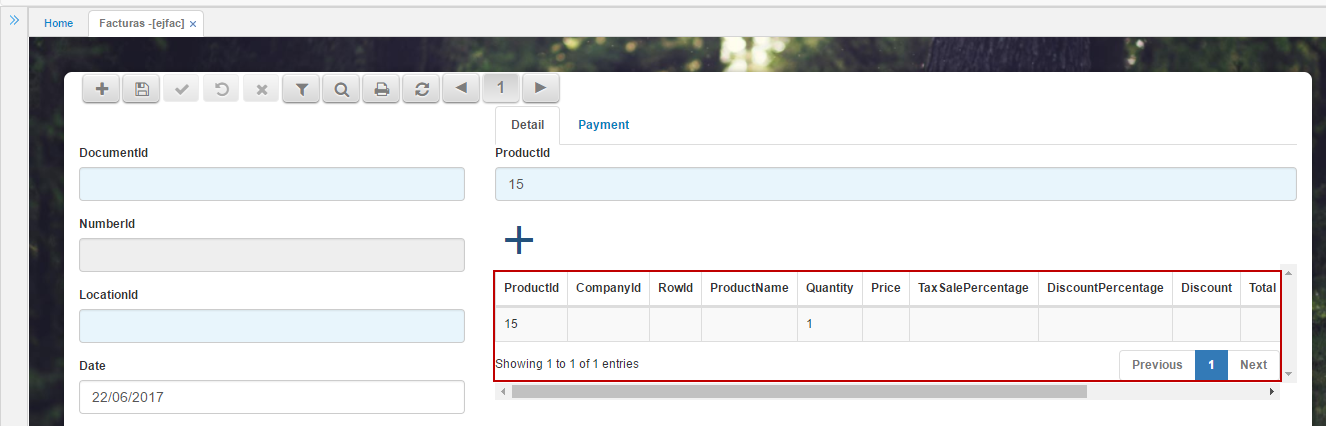
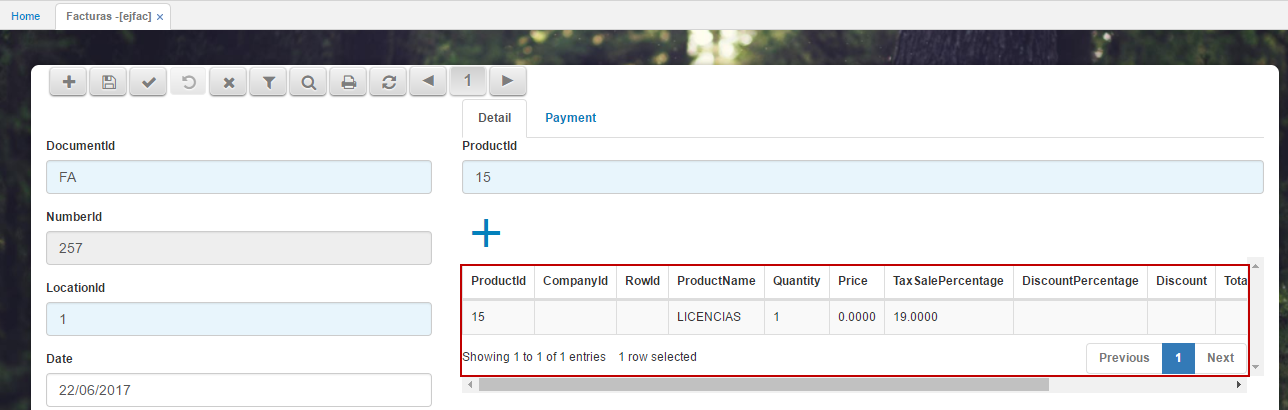
ejfac

diff --git a/Operacion/scm/pos/jcajero/ejfac.md b/Operacion/scm/pos/jcajero/ejfac.md
@@ -42,6 +42,12 @@ Los campos que sean de fondo azul indican que tienen zoom, en el cual pueden con
 **TaxSale:** ingresar el valor por impuesto a las ventas.  
 **Total:** ingresar el valor total del documento.  
 
+Ingresados los anteriores datos, damos click en el botón _Guardar_ ![](guardar.png) el cual asignará un número a la factura. 
+
+![](ejfac12.png)
+
+##### Detalle
+
 En la parte derecha de la ventana se encuentra la pestaña _Detalle_, en donde se seleccionará el producto correspondiente al documento que se realiza, ya sea que se factura o se realiza devolución.  
 
 ![](ejfac4.png)
@@ -56,5 +62,39 @@ Seleccionado el producto, se debe dar click en el botón ![](mas.png) para que e
 
 ![](ejfac7.png)
 
+Si se desean agregar más productos, se vuelve a buscar en el campo _ProductId_ y se da click en el botón ![](mas.png).
+
+![](ejfac8.png)
+
+Para eliminar algún producto de la lista se debe dar click sobre el mismo.  
+
+
+##### Pago
+
+Seguidamente se encuentra la pestaña _Pago (Payment)_, la cual permite realizar la modificación de la forma de pago de la factura, en el campo forma de pago se debe modificar la misma, puede ser efectivo, débito, crédito entre otros, esto se parametriza previamente en el sistema en la aplicación [**BFOR - Formas de Pago**](http://docs.oasiscom.com/Operacion/common/bcomer/bfor).  
+
+![](ejfac9.png)
+
+**FormPaymentId:** seleccionar de la lista desplegable la forma de pago. Parametrización de formas de pago en la aplicación [**BFOR - Formas de Pago**](http://docs.oasiscom.com/Operacion/common/bcomer/bfor).
+
+![](ejfac10.png)
+
+**ProjectId:**
+**Value:** ingresar el valor total del documento.
+**BaseTax:** valor base sobre el cual se aplica el impuesto.  
+**Tax:** valor del impuesto
+**Card:** en caso de pagar con tarjeta ingresar el número.  
+**Expiration:** fecha de expiración de la tarjeta.  
+**Authorization:** número de autorización.  
+**Receipt:**
+**CheckNumber:**
+**BankId:**
+**Plaza:**
+
+Si el desembolso se va a realizar por diferentes formas de pago, la aplicación permite adicionarlas, igualmente se verán reflejadas en la lista inferior de la ventana.  
+
+Por ejemplo, si una parte del documento se pagará en efectivo, se deberá seleccionar esta forma de pago de la lista desplegable y adicionarla a la lista inferior de la ventana dando click en el botón ![](mas.png), así mismo se deberá hacer con las otras formas de pago que se deseen agregar.  
+
+![](ejfac11.png)
 
 
